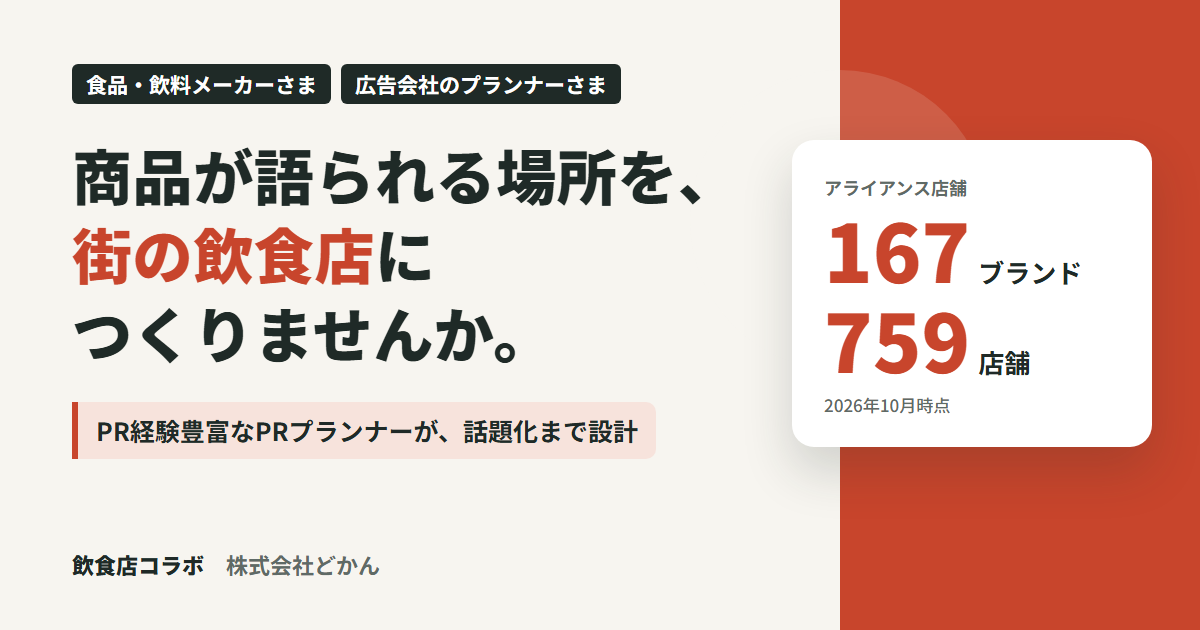
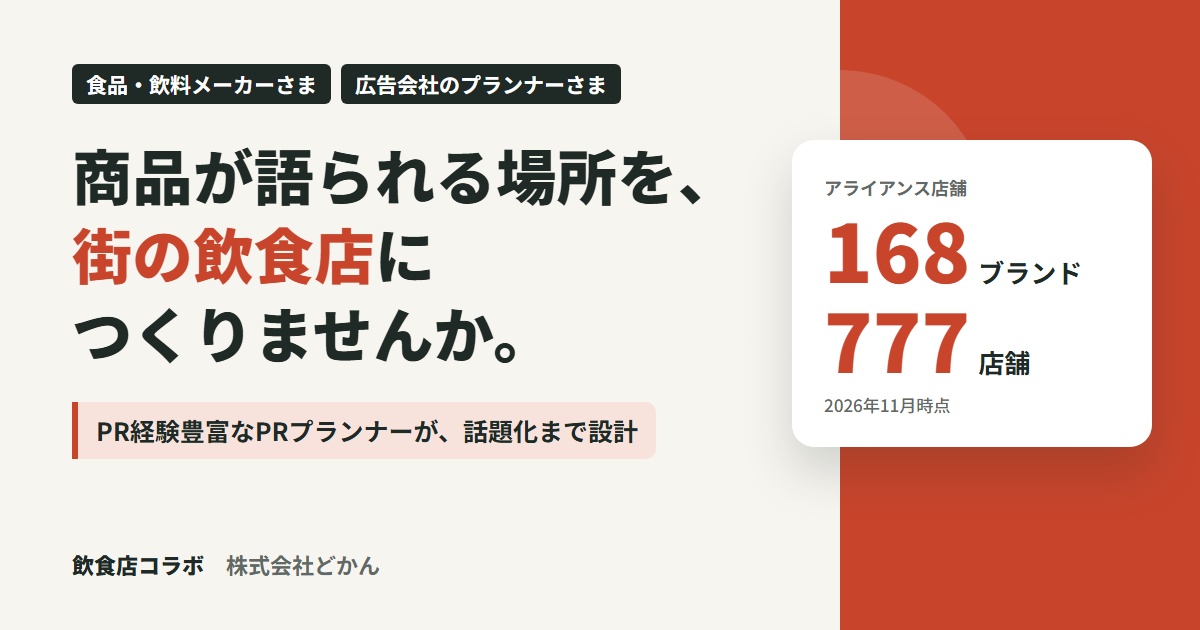
企業・広告会社向けLP：店舗数を最新（168ブランド・777店舗、2026年11月時点）に更新、OGP画像も差し替え

Changed region(s): [[0.7092, 0.4825, 0.8325, 0.6032], [0.7708, 0.3317, 0.8017, 0.4524], [0.74, 0.6333, 0.7708, 0.6635]]

diff --git a/collabo/partner/index.html b/collabo/partner/index.html
@@ -5,20 +5,20 @@
 <meta name="viewport" content="width=device-width, initial-scale=1">
 <title>飲食店コラボのご案内（企業・広告会社のみなさまへ）｜株式会社どかん</title>
 <meta name="robots" content="noindex, nofollow, noarchive">
-<meta name="description" content="167ブランド・759店舗の飲食店ネットワークで、話題になるコラボメニューを。PR経験豊富で、メディアやSNSでの話題づくりを熟知したPRプランナーが、店舗選びから企画、店舗との調整、発信までを設計します。">
+<meta name="description" content="168ブランド・777店舗の飲食店ネットワークで、話題になるコラボメニューを。PR経験豊富で、メディアやSNSでの話題づくりを熟知したPRプランナーが、店舗選びから企画、店舗との調整、発信までを設計します。">
 <meta property="og:type" content="website">
 <meta property="og:site_name" content="株式会社どかん">
 <meta property="og:title" content="飲食店コラボのご案内（企業・広告会社のみなさまへ）｜株式会社どかん">
-<meta property="og:description" content="167ブランド・759店舗の飲食店ネットワークで、話題になるコラボメニューを。PR経験豊富なPRプランナーが、企画から発信まで設計します。">
+<meta property="og:description" content="168ブランド・777店舗の飲食店ネットワークで、話題になるコラボメニューを。PR経験豊富なPRプランナーが、企画から発信まで設計します。">
 <meta property="og:url" content="https://www.docaninc.com/collabo/partner/">
 <meta property="og:image" content="https://www.docaninc.com/collabo/partner/ogp.png">
 <meta property="og:image:width" content="1200">
 <meta property="og:image:height" content="630">
-<meta property="og:image:alt" content="商品が語られる場所を、街の飲食店につくりませんか。167ブランド・759店舗のアライアンス店舗。PR経験豊富なPRプランナーが、話題化まで設計">
+<meta property="og:image:alt" content="商品が語られる場所を、街の飲食店につくりませんか。168ブランド・777店舗のアライアンス店舗。PR経験豊富なPRプランナーが、話題化まで設計">
 <meta property="og:locale" content="ja_JP">
 <meta name="twitter:card" content="summary_large_image">
 <meta name="twitter:title" content="飲食店コラボのご案内（企業・広告会社のみなさまへ）｜株式会社どかん">
-<meta name="twitter:description" content="167ブランド・759店舗の飲食店ネットワークで、話題になるコラボメニューを。PR経験豊富なPRプランナーが設計します。">
+<meta name="twitter:description" content="168ブランド・777店舗の飲食店ネットワークで、話題になるコラボメニューを。PR経験豊富なPRプランナーが設計します。">
 <meta name="twitter:image" content="https://www.docaninc.com/collabo/partner/ogp.png">
 <link rel="icon" href="/favicon.ico" sizes="any">
 <link rel="icon" href="/favicon.png" type="image/png">
@@ -448,7 +448,7 @@
       <div>
         <div class="for-whom"><span>食品・飲料メーカーさま</span><span>広告会社のプランナーさま</span></div>
         <h1><span class="nw">商品が語られる場所を、</span><br><span class="nw"><em>街の飲食店</em>に</span><span class="nw">つくりませんか。</span></h1>
-        <p>どかんは、167ブランド・759店舗の飲食店とアライアンスを組んでいます。コラボメニューで商品を「食べて体験できる」形にし、店舗選びから企画、店舗との調整、メディア・SNSでの発信までをまとめてお引き受けします。</p>
+        <p>どかんは、168ブランド・777店舗の飲食店とアライアンスを組んでいます。コラボメニューで商品を「食べて体験できる」形にし、店舗選びから企画、店舗との調整、メディア・SNSでの発信までをまとめてお引き受けします。</p>
         <div class="hero-actions">
           <a class="btn" href="#contact">相談してみる</a>
           <a class="btn ghost" href="#how">しくみを見る</a>
@@ -456,9 +456,9 @@
       </div>
       <div class="stat-card" aria-label="アライアンス店舗の規模">
         <div class="label">アライアンスを組んでいる飲食店</div>
-        <div class="stat-row"><b>167</b><span>ブランド</span></div>
-        <div class="stat-row"><b>759</b><span>店舗</span></div>
-        <p class="stat-note">2026年10月時点。2,000店舗に向けて拡大中</p>
+        <div class="stat-row"><b>168</b><span>ブランド</span></div>
+        <div class="stat-row"><b>777</b><span>店舗</span></div>
+        <p class="stat-note">2026年11月時点。2,000店舗に向けて拡大中</p>
         <hr>
         <div class="label">業態の例</div>
         <div class="tags" style="margin-top:8px">
@@ -591,7 +591,7 @@
         </div>
         <div class="reason">
           <div class="num">2</div>
-          <h3>167ブランド・759店舗のお店をベースにそれ以外のお店も含めて合うお店を調整</h3>
+          <h3>168ブランド・777店舗のお店をベースにそれ以外のお店も含めて合うお店を調整</h3>
           <p>カフェからラーメン、居酒屋まで、さまざまな業態の飲食店とアライアンスを組んでいます。商品やねらう客層、エリアに合わせてお店をご提案します。</p>
         </div>
         <div class="reason">
